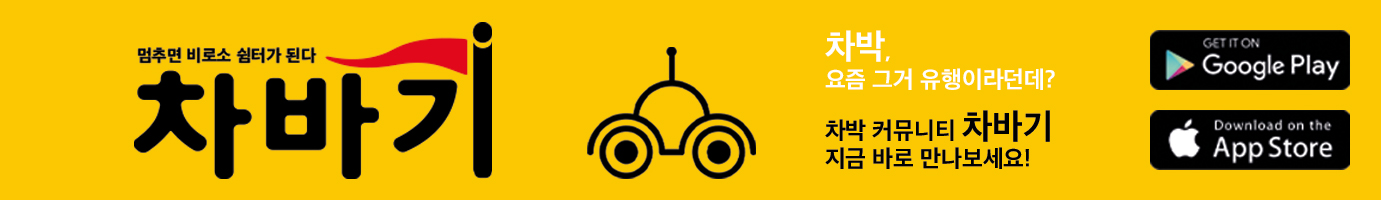
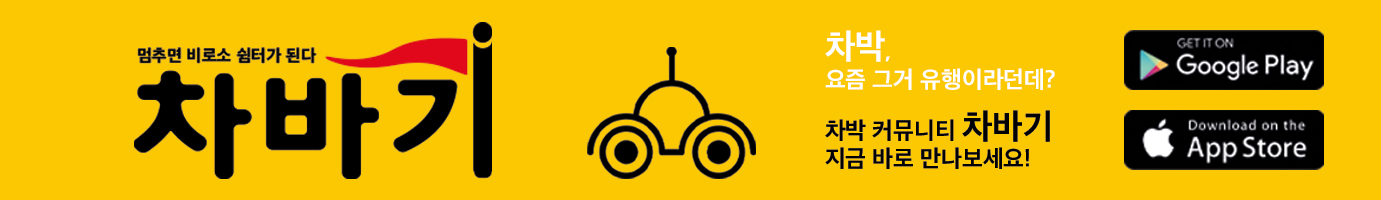
v1.2
20210527

Changed region(s): [[0.8096, 0.54, 0.9964, 0.87], [0.8096, 0.15, 0.9964, 0.45]]

diff --git a/css/style.css b/css/style.css
@@ -13,8 +13,23 @@
     font-style: normal;
 }
 
+@font-face {
+    font-family: 'DungGeunMo';
+    src: url('https://cdn.jsdelivr.net/gh/projectnoonnu/noonfonts_six@1.2/DungGeunMo.woff') format('woff');
+    font-weight: normal;
+    font-style: normal;
+}
+
+@font-face {
+    font-family: 'NeoDunggeunmo';
+    src: url('https://cdn.jsdelivr.net/gh/projectnoonnu/noonfonts_2001@1.3/NeoDunggeunmo.woff') format('woff');
+    font-weight: normal;
+    font-style: normal;
+}
+
 body {
-    background: #fff0d9;
+    /* background: #fff0d9; */
+    background: #eee;
     overflow-x: hidden;
 }
 /* header */
@@ -140,14 +155,13 @@ section {
 .home .weather {
     margin-top: 30px;
 }
-.home .weather_wrap {    
-    /* background: #fff; */
+.home .weather_wrap {
     border: 5px solid #333;
 }
 .home .weather_wrap .city {
     font-size: 1.5rem;
     font-weight: 600;
-    margin-top: 20px;
+    margin-top: 30px;
     text-align: center;
 }
 .home .weather_main {
@@ -213,30 +227,61 @@ section {
     font-size: 1rem;
     font-weight: 700;
     color: #fff;
+}
 
+.home .clock {
+    display: flex;
+    justify-content: center;
+    align-items: center;
+    width: 100%;
+    margin-top: 30px;
+    padding: 35px;
+    background: #333;
+}
+.home .clock:hover {
+    cursor: pointer;
+}
+.home .clock h1 {
+    width: 20%;
+    font-family: 'Calculator';
+    /* font-family: 'alarm clock'; */
+    text-align: center;
+    color: #eee;
+    transition: all 0.2s linear;
+}
+.home .clock .meridiem {
+    font-size: 2rem;
+}
+.home .clock .hour,
+.home .clock .minutes, 
+.home .clock .colon { 
+    font-size: 4rem;
+}
+.home .clock .seconds {
+    font-size: 1.5rem;
 }
 
 /* Banner Chabagi */
 .home .banner_chabagi {
     position: relative;
+    width: 100%;
+    height: 150px;
     margin-top: 30px;
-}
-.home .banner_chabagi:hover {
-    cursor: zoom-in;
 }
 .home .chabagi_wrap img {
     position: absolute;
+    left: 0;
     width: 100%;
 }
 .home .chabagi_wrap img:first-child {
     opacity: 1;
-    animation: chabagi1 0.3s linear infinite;
+    animation: chabagi1 0.3s ease infinite;
     animation-timing-function: cubic-bezier(0, 1, 0, 1);
     z-index: 1;
 }
 .home .chabagi_wrap img:last-child {
     opacity: 0;
-    animation: chabagi2 0.3s linear infinite;
+    animation: chabagi2 0.3s ease infinite;
     animation-timing-function: cubic-bezier(0, 1, 0, 1);
     z-index: 1;
 }
@@ -251,24 +296,6 @@ section {
     100% { opacity: 0; }
 }
 
-.home .banner_chabagi .finger {
-    opacity: 0;
-}
-.home .banner_chabagi:hover .finger {
-    opacity: 1;
-    transition: all 0.7s linear;
-}
+.vinally_article {
 
-.home .banner_chabagi .pointer {
-    opacity: 0;
 }
-.home .banner_chabagi:hover .pointer {
-    animation: pointer 2s linear infinite;
-}
-@keyframes pointer {
-    0% { opacity: 0; }
-    50% { opacity: 1; }
-    100% { opacity: 0; }
-}
-
-

diff --git a/index.html b/index.html
@@ -34,7 +34,7 @@
 
             <nav>
                 <ul class="menu">
-                    <li><a href="#" class="active">Main</a></li>
+                    <li><a href="#" class="active">Home</a></li>
                     <li><a href="#">Profile</a></li>
                     <li><a href="#">Contact</a></li>
                 </ul>
@@ -93,20 +93,43 @@
 
                 <!-- banner chabagi -->
                 <div class="row">
-                    <div class="col-lg-3">
-  
+                    <div class="col-lg-4">
+                        <div class="clock">
+                            <h1 class="meridiem"></h1>
+                            <h1 class="hour"></h1>
+                            <h1 class="colon">:</h1>
+                            <h1 class="minutes"></h1>
+                            <h1 class="seconds"></h1>
+                        </div>
                     </div>
-                    <div class="col-lg-9">
+                    <div class="col-lg-8">
                         <div class="banner_chabagi">
                             <a href="#">
                                 <div class="chabagi_wrap">
                                     <img src="images/chabagi_flag01.png" alt="" />
                                     <img src="images/chabagi_banner.jpg" alt="" />
-                                    <img src="images/chabagi_pointer.png" alt="" class="pointer" />
-                                    <img src="images/chabagi_finger.png" alt="" class="finger" />
                                     <img src="images/chabagi_flag02.png" alt="" />
                                 </div>
                             </a>
+                        </div>
+                    </div>
+                </div>
+
+                <div class="row">
+                    <div class="col-lg-4">
+                        <div class="psycological">
+
+                        </div>
+                    </div>
+                    <div class="col-lg-4">
+                        <div class="vinally_center">
+                            <h2>바이닐 구독 서비스 Vinally 출시</h2>
+                            <img src="" alt="" />
+                        </div>
+                    </div>
+                    <div class="col-lg-4">
+                        <div class="vinally_right">
+
                         </div>
                     </div>
                 </div>

diff --git a/js/time.js b/js/time.js
@@ -1,15 +1,58 @@
-const deg = 6;
-const hr = document.querySelector("#hr");
-const mn = document.querySelector("#mn");
-const sc = document.querySelector("#sc");
+const clock = document.querySelector('.clock');
+const meridiem = document.querySelector('.meridiem');
+const h = document.querySelector('.hour');
+const colon = document.querySelector('.colon');
+const m = document.querySelector('.minutes');
+const s = document.querySelector('.seconds');
 
-setInterval(() => {
-  let day = new Date();
-  let hh = day.getHours() * 30;
-  let mm = day.getMinutes() * deg;
-  let ss = day.getSeconds() * deg;
+function getTime(){
+    const now = new Date();
+    let hours = now.getHours();
+    let minutes = ('00' + now.getMinutes()).slice(-2);
+    let seconds = ('00' + now.getSeconds()).slice(-2);
 
-  hr.style.transform = `rotateZ(${hh + mm / 12}deg)`;
-  mn.style.transform = `rotateZ(${mm}deg)`;
-  sc.style.transform = `rotateZ(${ss}deg)`;
+    if (hours < 12) {
+        let str = 'AM';
+        meridiem.innerHTML = `${str}`
+    } else {
+        let str = 'PM';
+        hours -= 12;
+        meridiem.innerHTML = `${str}`
+    }
+
+    h.innerHTML = hours;
+    m.innerHTML = minutes;
+    s.innerHTML = seconds;
+}
+
+function init(){
+    setInterval(getTime, 1000);
+}
+
+init();
+
+let count = 1;
+const color = ["#eee", "#47ffb8", "#fbc800", "#ff4f70", "#4f7dff"];
+
+clock.addEventListener('click', function () {
+
+    if (count > 4) {
+        count = 0;
+    }
+
+    this.animate([
+        {transform: 'scale(1)'},
+        {transform: 'scale(0.99)'},
+        {transform: 'translate(2px)'},
+        {transform: 'translate(0px)'},
+        {transform: 'translate(-2px)'}
+    ], 100);
+
+    meridiem.style.color = color[count];
+    h.style.color = color[count];
+    colon.style.color = color[count];
+    m.style.color = color[count];
+    s.style.color = color[count];
+
+    count++;
 });

diff --git a/css/reset.css b/css/reset.css
@@ -17,6 +17,11 @@ time, mark, audio, video {
 	font-size: 100%;
 	font: inherit;
 	vertical-align: baseline;
+	-ms-user-select: none; 
+	-moz-user-select: -moz-none;
+	-khtml-user-select: none;
+	-webkit-user-select: none;
+	user-select: none;
 }
 /* HTML5 display-role reset for older browsers */
 article, aside, details, figcaption, figure, 

diff --git a/js/main.js b/js/main.js
@@ -1,1 +1,2 @@
 AOS.init();
+
